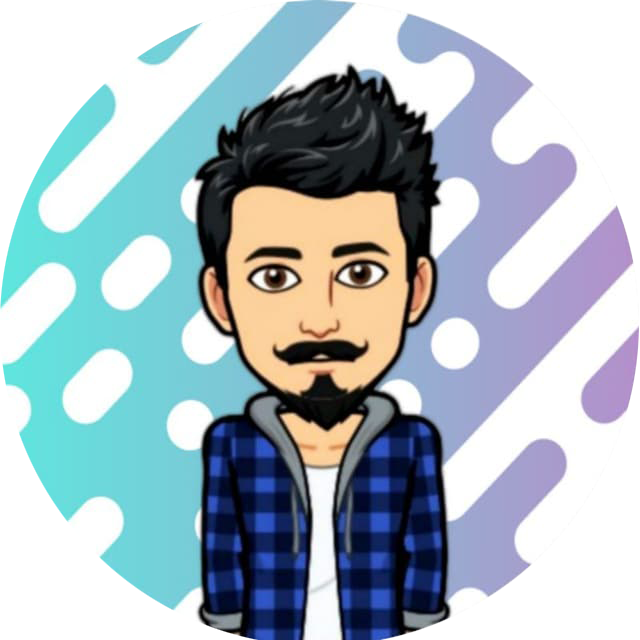
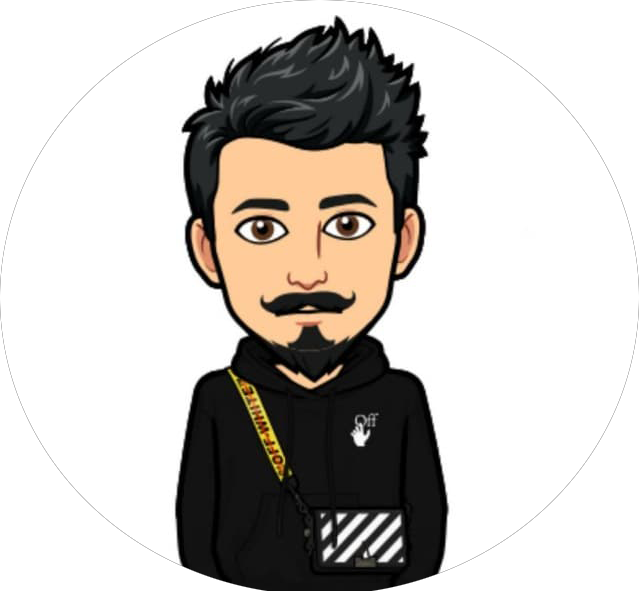
Update

diff --git a/style.css b/style.css
@@ -1,137 +1,125 @@
-@import url('https://fonts.googleapis.com/css2?family=Poppins:wght@400;500;600&display=swap');
+@import url("https://fonts.googleapis.com/css2?family=Poppins:wght@400;500;600&display=swap");
 
-*{
-    margin: 0;
-    padding: 0;
-    box-sizing: border-box;
-    font-family: 'Poppins', sans-serif;
-    color: white;
+* {
+  margin: 0;
+  padding: 0;
+  box-sizing: border-box;
+  font-family: "Poppins", sans-serif;
+  color: white;
 }
 
 /* landing Page  */
 .main-bg::before {
-    content: "";
-    background: url("./image/main-bg.svg")
-        no-repeat center center/cover;
-    position: absolute;
-    top: 0;
-    left: 0;
-    width: 100%;
-    height: 100%;
-    z-index: -2;
-    
+  content: "";
+  background: url("./image/main-bg.svg") no-repeat center center/cover;
+  position: absolute;
+  top: 0;
+  left: 0;
+  width: 100%;
+  height: 100%;
+  z-index: -2;
 }
 
 .top-navbar {
-    height: 4rem;
-    width: 100vw;
-    display: flex;
-    background: #00000067;
-    align-items: center;
-}
-
-.top-nav {
-    display: flex;
-    flex-direction: row;
-    width: 400px;
-    justify-content: space-around;
-    align-items: center;
+  width: 100vw;
+  display: flex;
+  align-items: center;
 }
 
 .top-navbar .avatar img {
-    width: 2.5rem;
-    height: 2.5rem;
-    opacity: 0.8;
+  width: 5rem;
+  height: 5rem;
+  border-radius: 50%;
+  margin: 2rem;
 }
 
 .top-navbar h2 a {
-    font-size: 1rem;
+  font-size: 1rem;
 }
 .top-navbar h2 a {
-    text-decoration: none;
-    transition: all .2s ease-in-out;
+  text-decoration: none;
+  transition: all 0.2s ease-in-out;
 }
 .top-navbar h2 a:hover {
-    color: rgb(83, 83, 83);
+  color: rgb(83, 83, 83);
 }
 
 .right-navbar {
-    display: flex;
-    position: absolute;
-    right: 0;
-    top: 0;
-    height: 100vh;
-    width: 4rem;
-    justify-content: center;
-    align-items: center;
+  display: flex;
+  position: absolute;
+  right: 0;
+  top: 0;
+  height: 100vh;
+  width: 4rem;
+  justify-content: center;
+  align-items: center;
 }
 
 .right-navbar .icon {
-    display: flex;
-    flex-direction: column;
-    height: 300px;
-    justify-content: space-around;
+  display: flex;
+  flex-direction: column;
+  height: 300px;
+  justify-content: space-around;
 }
 .right-navbar .icon img {
-    width: 30px;
-    height: 30px;
-    transition: all .2s ease-in-out;
+  width: 30px;
+  height: 30px;
+  transition: all 0.2s ease-in-out;
 }
 .right-navbar .icon img:hover {
-    transform: scale(1.5);
+  transform: scale(1.5);
 }
 
 .bottom-navbar {
-    position: absolute;
-    left: 0;
-    bottom: 0;
-    height: 4rem;
-    width: 100vw;
-    /* background: #000; */
+  position: absolute;
+  left: 0;
+  bottom: 0;
+  height: 4rem;
+  width: 100vw;
+  /* background: #000; */
 }
 
 .bottom-navbar .location {
-    display: flex;
-    flex-direction: row;
-    width: 170px;
-    justify-content: space-around;
-    align-items: center;
+  display: flex;
+  flex-direction: row;
+  width: 170px;
+  justify-content: space-around;
+  align-items: center;
 }
 
 .bottom-navbar .location img {
-    width: 30px;
-    height: 30px;
+  width: 30px;
+  height: 30px;
 }
 
-.bottom-navbar .location h2 a{
-    font-size: 1rem;
-    transition: all .2s ease-in-out;
+.bottom-navbar .location h2 a {
+  font-size: 1rem;
+  transition: all 0.2s ease-in-out;
 }
-.bottom-navbar .location h2 a:hover{
-    color: rgb(83, 83, 83);
+.bottom-navbar .location h2 a:hover {
+  color: rgb(83, 83, 83);
 }
 
 @media screen and (max-width: 600px) {
-    body{
-        overflow: hidden;
-    }
-    .main-bg::before {
-        background: url("./image/android.svg")
-        no-repeat center center/cover;
-    }
-    .top-navbar {
-        justify-content: center;
-    }
+  body {
+    overflow: hidden;
+  }
+  .main-bg::before {
+    background: url("./image/android.svg") no-repeat center center/cover;
+  }
+  .top-navbar {
+    justify-content: center;
+  }
 
-    .location {
-        height: 15px;
-        width: 15px;
-    }
+  .location {
+    height: 15px;
+    width: 15px;
+  }
 
-    .location h2 {
-        font-size: .5rem;
-    }
-    .location h2 a{
-        text-decoration: none;
-    }
+  .location h2 {
+    font-size: 0.5rem;
+  }
+  .location h2 a {
+    text-decoration: none;
+  }
 }

diff --git a/index.html b/index.html
@@ -6,7 +6,7 @@
     <meta http-equiv="X-UA-Compatible" content="IE=edge">
     <meta name="viewport" content="width=device-width, initial-scale=1.0">
     <title>Yash Portfolio</title>
-    <link rel="icon" href="./image/Avatar.png" type="image/x-icon">
+    <link rel="icon" href="./image/avatar.png" type="image/x-icon">
     <link rel="stylesheet" href="style.css">
 </head>
 
@@ -15,13 +15,13 @@
 
     <div class="top-navbar">
         <div class="top-nav">
-            <div class="avatar"><img src="./image/Avatar.png" alt="Logo"></div>
-            <h2>
+            <div class="avatar"><img src="./image/Avatar.jpg" alt="Logo"></div>
+            <!-- <h2>
                 <a href="#home">Home</a>
             </h2>
             <h2>
                 <a href="portfolio.html">Portfolio</a>
-            </h2>
+            </h2> -->
         </div>
 
     </div>
@@ -43,14 +43,13 @@
     </div>
     <div class="bottom-navbar">
         <div class="location">
-            <a
-                <img src="./image/location.svg" alt=""></a>
+            <a <img src="./image/location.svg" alt=""></a>
             <h2>
-                <a
-                    Bhopal, India</a>
+                <a Bhopal, India</a>
             </h2>
         </div>
     </div>
+
 </body>
 
 </html>
